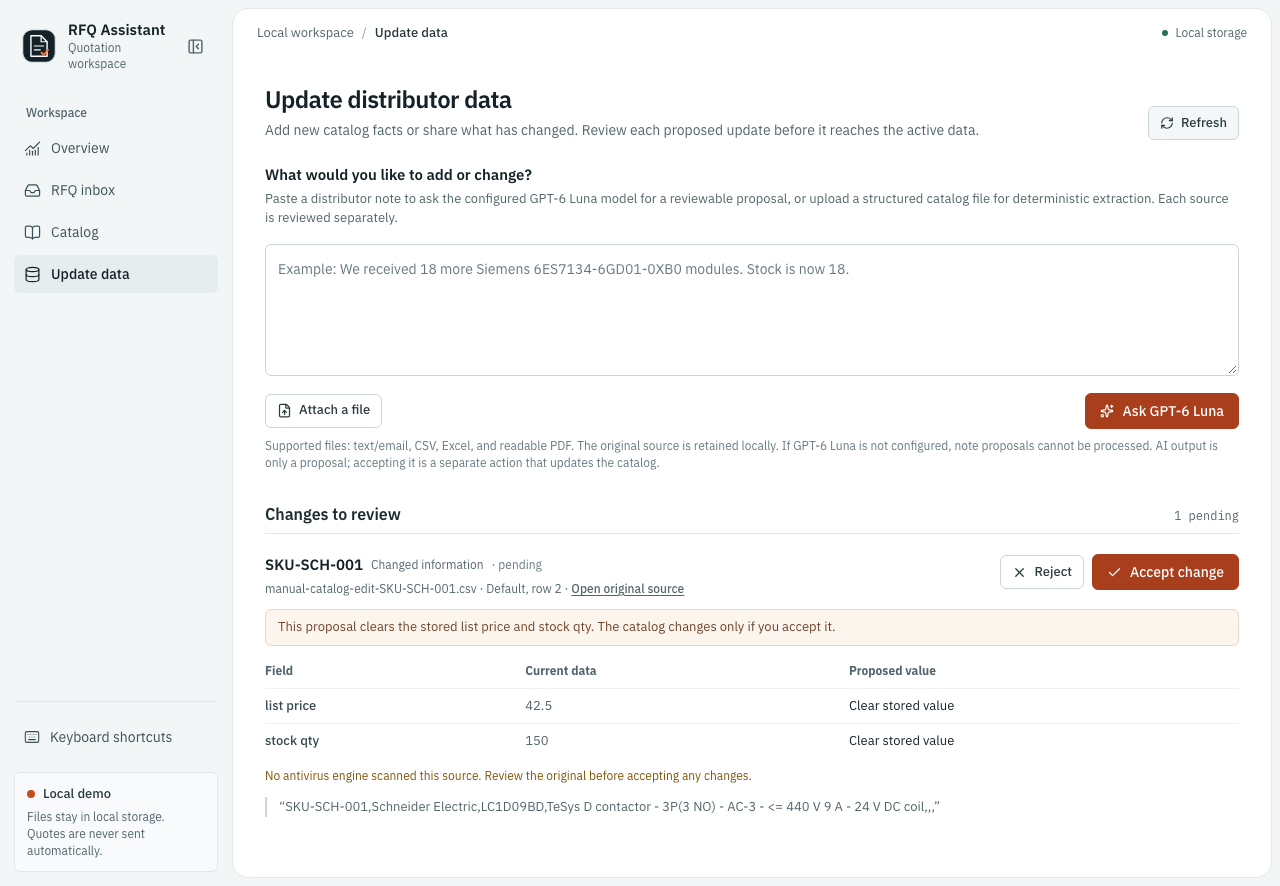
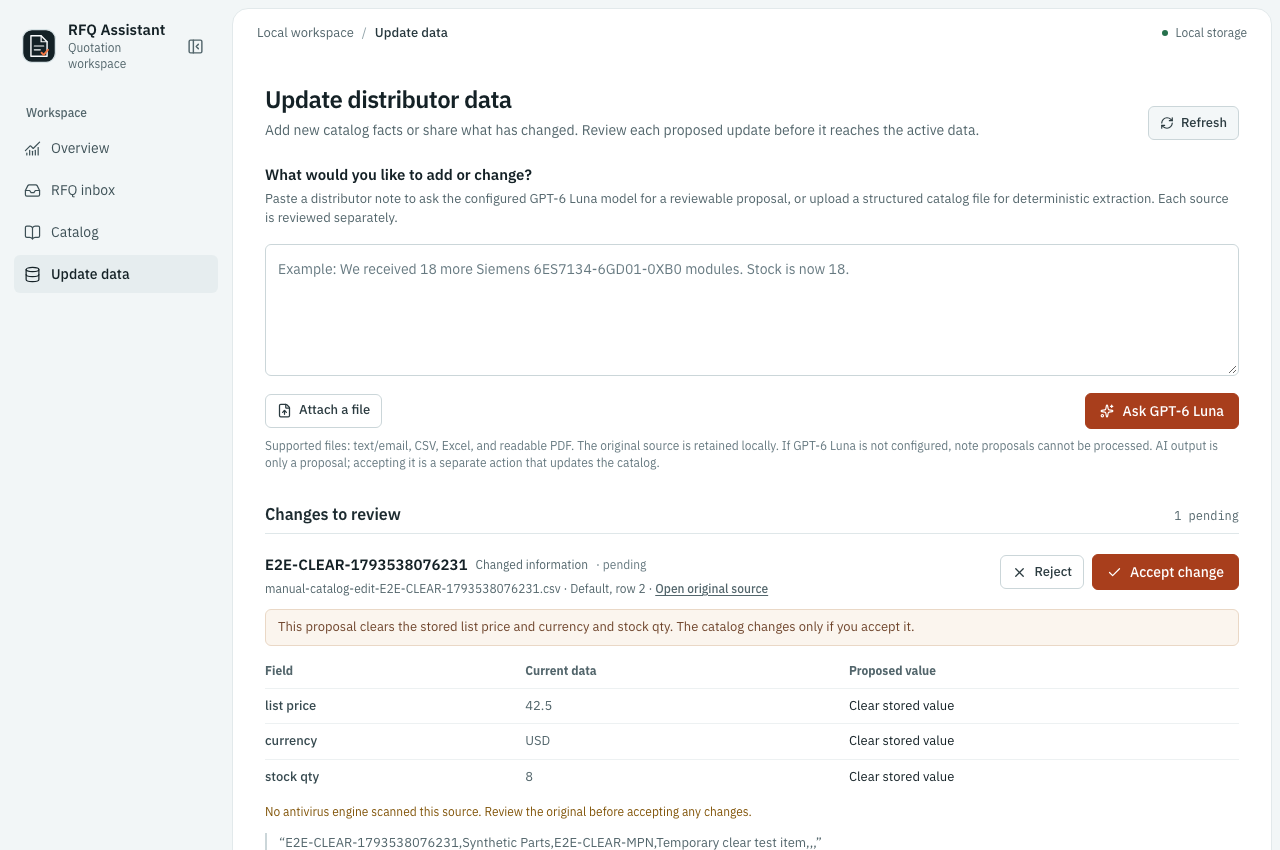
test: isolate catalog clear browser fixture

diff --git a/frontend/e2e/catalog-clear-values.spec.ts b/frontend/e2e/catalog-clear-values.spec.ts
@@ -1,9 +1,32 @@
 import { expect, test } from "@playwright/test";
 
 test("nullable catalog values clear through an explicit reviewed proposal", async ({ page }) => {
+  const sku = `E2E-CLEAR-${Date.now()}`;
+  const seedCsv = [
+    "internal_sku,manufacturer,manufacturer_part_number,description,list_price,currency,stock_qty",
+    `${sku},Synthetic Parts,E2E-CLEAR-MPN,Temporary clear test item,42.50,USD,8`,
+  ].join("\r\n");
+
+  const staged = await page.request.post("/api/proxy/api/catalogs/updates", {
+    multipart: {
+      file: {
+        name: `${sku}.csv`,
+        mimeType: "text/csv",
+        buffer: Buffer.from(seedCsv),
+      },
+    },
+  });
+  expect(staged.ok()).toBe(true);
+  const [seedProposal] = await staged.json();
+  const acceptedSeed = await page.request.post(
+    `/api/proxy/api/catalogs/updates/${seedProposal.proposal_id}/accept`,
+    { data: {} },
+  );
+  expect(acceptedSeed.ok()).toBe(true);
+
   await page.goto("/workspace");
   await page.getByRole("button", { name: "Catalog" }).click();
-  await page.getByRole("button", { name: "Edit SKU-SCH-001" }).click();
+  await page.getByRole("button", { name: `Edit ${sku}` }).click();
 
   const dialog = page.getByRole("dialog", { name: "Edit item" });
   await dialog.getByRole("checkbox", { name: /Clear list price/ }).check();
@@ -12,8 +35,8 @@ test("nullable catalog values clear through an explicit reviewed proposal", asyn
   await expect(dialog).toBeHidden();
 
   await page.locator("#main-content").getByRole("button", { name: "Update data" }).click();
-  const proposal = page.getByRole("article").filter({ hasText: "SKU-SCH-001" });
-  await expect(proposal.getByText("This proposal clears the stored list price and stock qty.")).toBeVisible();
+  const proposal = page.getByRole("article").filter({ hasText: sku });
+  await expect(proposal.getByText("This proposal clears the stored list price and currency and stock qty.")).toBeVisible();
   await expect(proposal.getByRole("row", { name: /list price.*Clear stored value/ })).toBeVisible();
   await expect(proposal.getByRole("row", { name: /stock qty.*Clear stored value/ })).toBeVisible();
 
@@ -21,11 +44,11 @@ test("nullable catalog values clear through an explicit reviewed proposal", asyn
   const response = await page.request.get("/api/proxy/api/catalogs");
   expect(response.ok()).toBe(true);
   const items = await response.json();
-  const item = items.find((row: { internal_sku: string }) => row.internal_sku === "SKU-SCH-001");
+  const item = items.find((row: { internal_sku: string }) => row.internal_sku === sku);
   expect(item.list_price).toBeNull();
   expect(item.currency).toBeNull();
   expect(item.stock_qty).toBeNull();
   expect(item.description).toBeTruthy();
-  expect(item.manufacturer).toBe("Schneider Electric");
-  expect(item.manufacturer_part_number).toBe("LC1D09BD");
+  expect(item.manufacturer).toBe("Synthetic Parts");
+  expect(item.manufacturer_part_number).toBe("E2E-CLEAR-MPN");
 });

diff --git a/docs/TESTING.md b/docs/TESTING.md
@@ -169,7 +169,7 @@ The protected web workspace now validates each operator's own backend API key, s
 
 Catalog edit clear proposals are covered by `tests/test_catalog_update_proposals.py`: only nullable list price/currency and stock fields can be cleared, price and currency clear together when both exist, the item remains unchanged while pending, and acceptance records the clear in the proposal and active catalog. The browser flow `nullable catalog values clear through an explicit reviewed proposal` verifies the user can stage, inspect, and accept the change; see the synthetic [clear proposal screenshot](screenshots/catalog-clear-proposal.png). Manufacturer, part number, and description remain required.
 
-Verification on 2026-11-01 for catalog clear proposals: full backend suite **557 passed** (4,381 warnings, predominantly existing datetime/Pydantic deprecations); targeted catalog proposal and OpenAPI contract tests **13 passed**; Ruff's CI syntax/import check and format check for the changed test file passed; frontend ESLint, TypeScript, and production build passed; isolated Playwright clear-proposal flow **1/1 passed** using temporary storage. No live model or customer data was used.
+Verification on 2026-11-01 for catalog clear proposals: full backend suite **557 passed** (4,381 warnings, predominantly existing datetime/Pydantic deprecations); targeted catalog proposal and OpenAPI contract tests **13 passed**; Ruff's CI syntax/import check and format check for the changed test file passed; frontend ESLint, TypeScript, and production build passed; full Playwright suite **18/18 passed** using isolated temporary services and storage. The clear-value browser flow creates a unique synthetic catalog item so it cannot modify fixtures used by other E2E tests. No live model or customer data was used.
 
 Local verification on the multi-source implementation branch (2026-11-01): Python 3.12 full suite **529 passed** at **88.74%** coverage; the 80% overall floor and 95% floors for quotation validation, matching, exports and persistence passed. Playwright **16 passed**; frontend ESLint, TypeScript, and production build passed; `git diff --check` passed. Pytest reported existing dependency/Pydantic deprecation warnings; no failures. No live Luna call or antivirus engine scan was part of this run.
 
